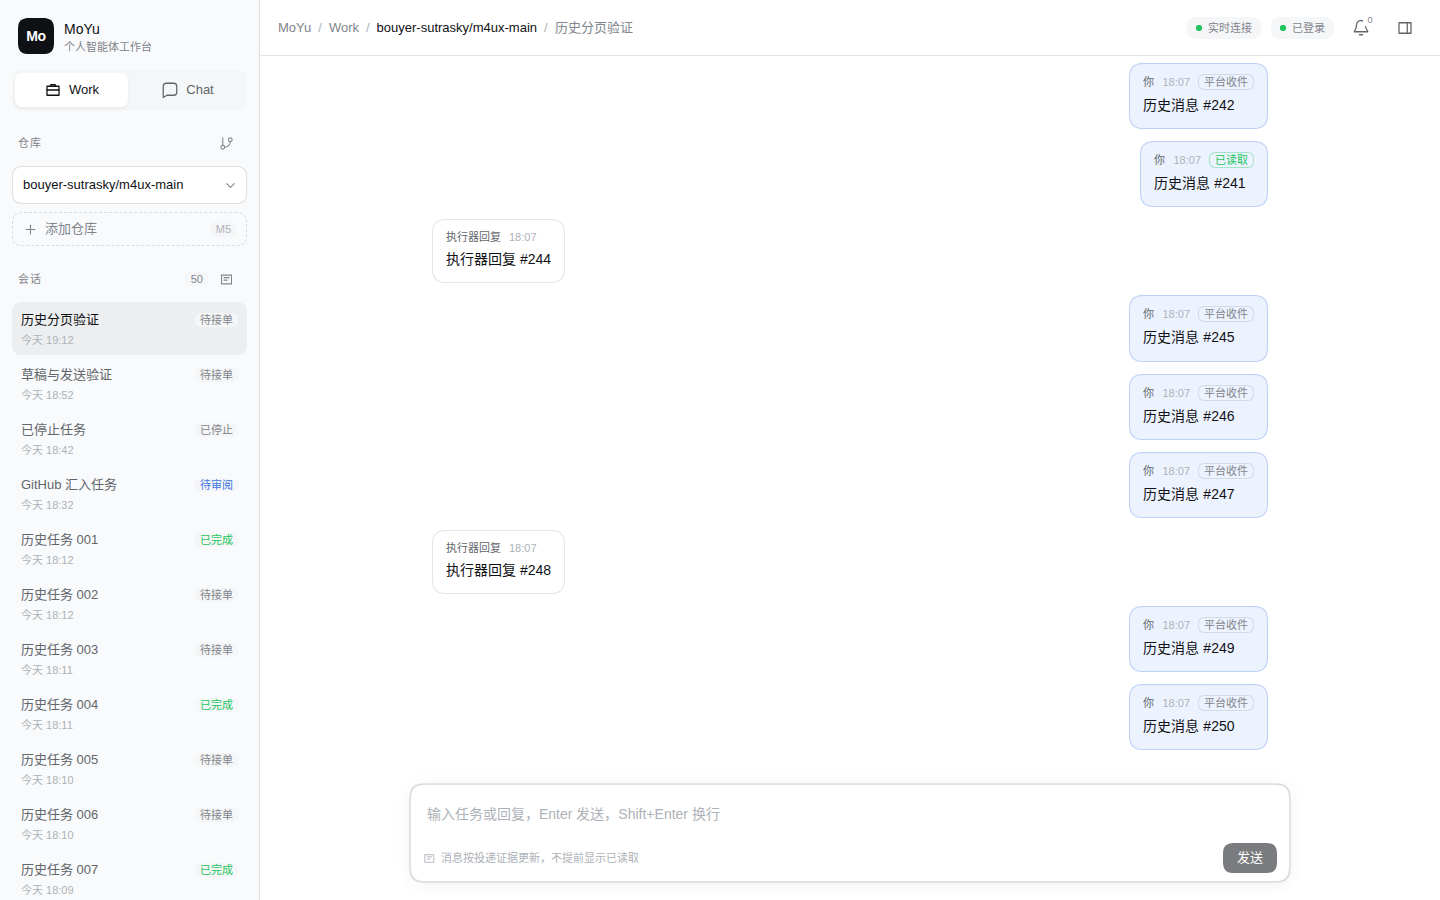
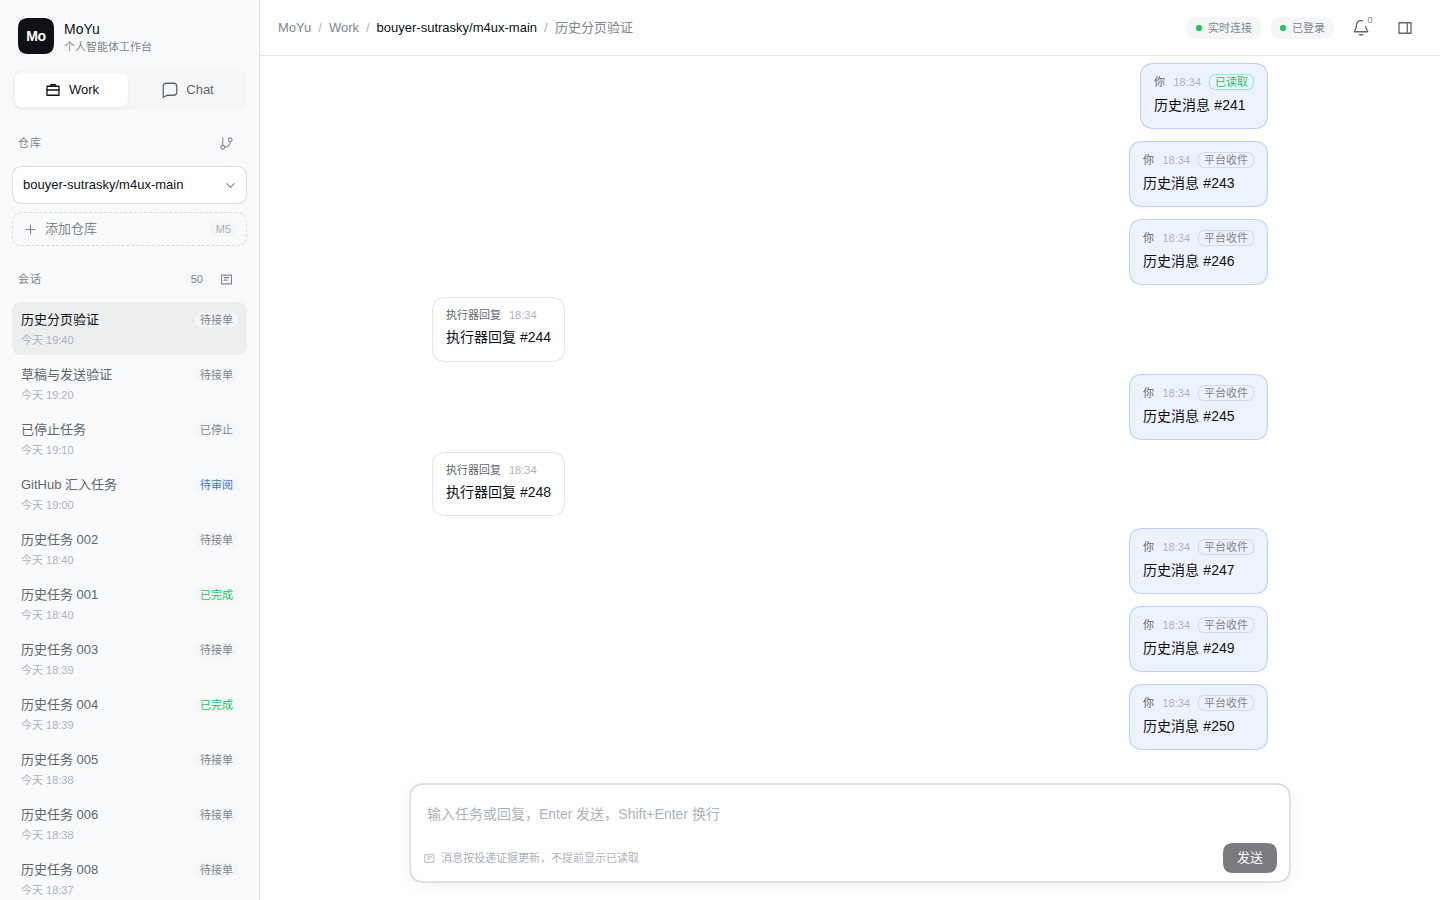
fix(web): 保持分页合并的服务器顺序并优先内存草稿 (#23)

diff --git a/apps/web/src/shell/WorkspaceShell.tsx b/apps/web/src/shell/WorkspaceShell.tsx
@@ -46,33 +46,38 @@ interface ProgressEntry {
   at: string;
 }
 
-function compareMessages(left: Message, right: Message): number {
-  if (left.createdAt !== right.createdAt) {
-    return left.createdAt < right.createdAt ? -1 : 1;
-  }
-  if (left.id === right.id) {
-    return 0;
-  }
-  return left.id < right.id ? -1 : 1;
-}
-
 /**
- * Merges pages by message id. Loaded history is kept, a message that appears
- * again replaces its earlier projection (for example a delivery update), and
- * the result is restored to the server's ascending order.
+ * Merges one server page into the loaded history without re-sorting it. The
+ * server orders by `(created_at, id)` with full PostgreSQL precision; sorting
+ * the serialized ISO milliseconds again could reorder messages whose
+ * microseconds differ inside one millisecond. A page that overlaps the current
+ * list replaces that block (delivery updates), an older page is prepended and a
+ * newer page appended.
  */
-function mergeMessages(current: Message[], incoming: Message[]): Message[] {
+function mergeMessages(
+  current: Message[],
+  incoming: Message[],
+  direction: 'older' | 'newer',
+): Message[] {
   if (incoming.length === 0) {
     return current;
   }
-  const byId = new Map(current.map((message) => [message.id, message]));
-  for (const message of incoming) {
-    byId.set(message.id, message);
+  const incomingIds = new Set(incoming.map((message) => message.id));
+  if (current.length === 0) {
+    return incoming;
   }
-  if (byId.size === current.length && incoming.every((message) => current.includes(message))) {
-    return current;
+  const firstOverlap = current.findIndex((message) => incomingIds.has(message.id));
+  if (firstOverlap === -1) {
+    // Disjoint pages keep the server order; the caller knows whether the page
+    // is older or newer than the loaded range, so no timestamp re-comparison is
+    // needed at a boundary that may share a millisecond.
+    return direction === 'older' ? [...incoming, ...current] : [...current, ...incoming];
   }
-  return [...byId.values()].sort(compareMessages);
+  let lastOverlap = current.length - 1;
+  while (lastOverlap > firstOverlap && !incomingIds.has(current[lastOverlap]!.id)) {
+    lastOverlap -= 1;
+  }
+  return [...current.slice(0, firstOverlap), ...incoming, ...current.slice(lastOverlap + 1)];
 }
 
 function mergeConversations(
@@ -346,7 +351,7 @@ export function WorkspaceShell({
           return;
         }
         setMessages((current) =>
-          silent ? mergeMessages(current, result.messages) : result.messages,
+          silent ? mergeMessages(current, result.messages, 'newer') : result.messages,
         );
         setMessagesNextCursor((current) => (silent && current ? current : result.nextCursor));
         setMessagesNewerCursor(result.newerCursor);
@@ -414,7 +419,7 @@ export function WorkspaceShell({
               toBottom: true,
             };
           }
-          setMessages((current) => mergeMessages(current, result.messages));
+          setMessages((current) => mergeMessages(current, result.messages, 'newer'));
           if (!cursor) {
             setMessagesNextCursor((current) => current ?? result.nextCursor);
             setMessagesHasMoreOlder((current) => current || result.nextCursor !== null);
@@ -485,7 +490,7 @@ export function WorkspaceShell({
         anchorId: visible?.id ?? anchor?.dataset.messageId,
         anchorTop: visible?.top,
       };
-      setMessages((current) => mergeMessages(current, result.messages));
+      setMessages((current) => mergeMessages(current, result.messages, 'older'));
       setMessagesNextCursor(result.nextCursor);
       setMessagesHasMoreOlder(result.nextCursor !== null);
       setMessagesOlderStatus('idle');

diff --git a/apps/web/src/lib/drafts.ts b/apps/web/src/lib/drafts.ts
@@ -106,6 +106,12 @@ export function loadDraft(
   conversationId: string,
 ): Draft | null {
   const key = draftKey(ownerId, repositoryId, conversationId);
+  // The in-memory copy is this tab's newest edit. Prefer it after a failed
+  // storage write, where localStorage can still hold an older version.
+  const cached = memory.get(key);
+  if (cached) {
+    return cached;
+  }
   const local = storage();
   if (local) {
     try {
@@ -115,7 +121,7 @@ export function loadDraft(
         return parsed;
       }
     } catch {
-      // Fall through to the in-memory copy.
+      // Fall through to the (empty) in-memory copy.
     }
   }
   return memory.get(key) ?? null;
